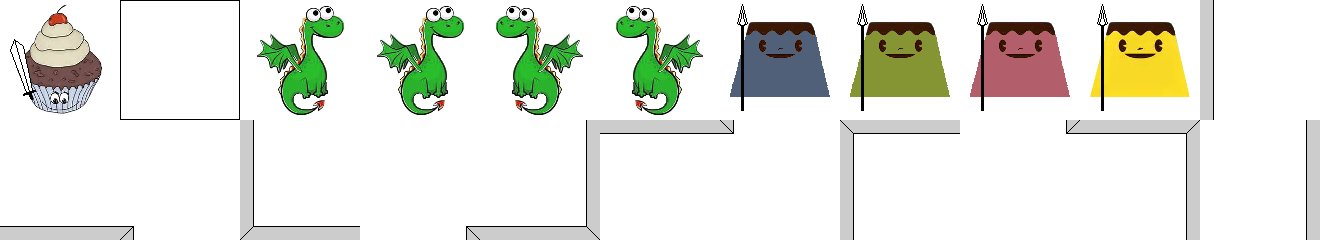
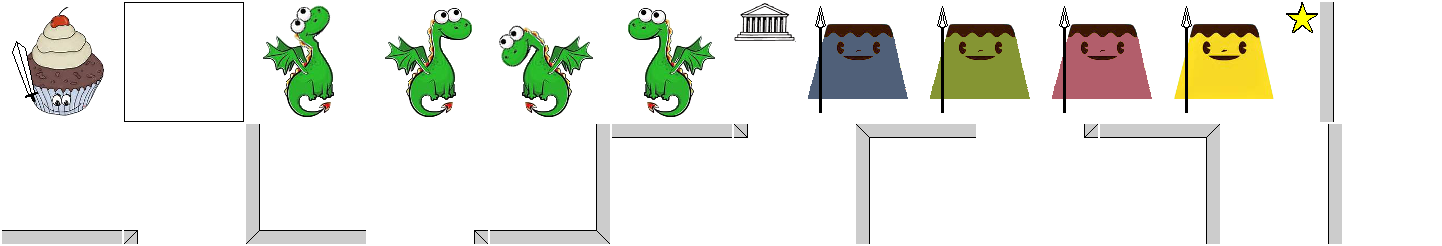
room select

diff --git a/src/scene/select-room.js b/src/scene/select-room.js
@@ -1,6 +1,82 @@
 var SelectRoomLayer = cc.Layer.extend({
     ctor: function () {
         this._super();
+
+        var currentY = 40;
+        var stageNumber = 0;
+        var isFirst = true;
+        _.each(rooms,function(roomEntry){
+            var sprite = new cc.Sprite(cc.spriteFrameCache.getSpriteFrame( "palace1.png" ))
+            sprite.attr({
+                x: Math.sin( (currentY - 40)/1.5/360*2*3.1415926 ) * (cc.winSize.width/2-30) + cc.winSize.width/2,
+                y: currentY,
+                anchorX: 0.5,
+                anchorY: 0.5
+            })
+            this.addChild(sprite);
+            var selectable = false;
+            if ( score[stageNumber] >= roomEntry.scoreCondition[0] ) {
+                selectable = true;
+                this.addStar(sprite, 0)
+                if ( score[stageNumber] >= roomEntry.scoreCondition[1] ) {
+                    this.addStar(sprite, 1)
+                }
+                if ( score[stageNumber] >= roomEntry.scoreCondition[2] ) {
+                    this.addStar(sprite, 2)
+                }
+            } else {
+                if (isFirst) {
+                    selectable = true;
+                    isFirst = false;
+                } else {
+                    selectable = false;
+                }
+            }
+            if ( selectable ) {
+                (function(stageNumber, roomEntry) {
+                    cc.eventManager.addListener({
+                        event: cc.EventListener.TOUCH_ONE_BY_ONE,
+                        swallowTouches: true,
+                        onTouchBegan: function (touch, event) {
+                            var target = event.getCurrentTarget();
+                            var locationInNode = target.convertToNodeSpace(touch.getLocation());
+                            var locationInNode = target.convertToNodeSpace(touch.getLocation());
+                            var s = target.getContentSize();
+                            var rect = cc.rect(0, 0, s.width, s.height);
+                            if (cc.rectContainsPoint(rect, locationInNode)) {
+                                return true;
+                            }
+                            return false;
+                        },
+                        //Trigger when moving touch
+                        onTouchMoved: function (touch, event) {
+                        },
+                        //Process the touch end event
+                        onTouchEnded: function (touch, event) {
+                            cc.director.runScene(new RoomScene({
+                                roomEntry: roomEntry
+                            }));
+                        }
+                    }, sprite);
+                })(stageNumber, roomEntry);
+            } else {
+                sprite.attr({
+                    opacity: 64
+                })
+            }
+            currentY += 40;
+            stageNumber++;
+        },this)
+    },
+    addStar:function(sprite, position){
+        var star = new cc.Sprite(cc.spriteFrameCache.getSpriteFrame( "star.png" ))
+        star.attr({
+            y: 0,
+            x: 5+25*position,
+            scaleX: 0.7,
+            scaleY: 0.7
+        })
+        sprite.addChild(star);
     }
 });
 

diff --git a/src/model/condition.js b/src/model/condition.js
@@ -1,31 +1,41 @@
-var CONDITION_MAP = {
+var CONDITION_FUN_FACTORY_MAP = {
     outOfTurn:function(roomModel){
-        var turnLimit = roomModel.get("turnLimit");
-        if ( turnLimit === 0 ) return false; //unlimited turn
-        return roomModel.get("turnNumber") >= turnLimit;
+        return function(roomModel) {
+            var turnLimit = roomModel.get("turnLimit");
+            if (turnLimit === 0) return false; //unlimited turn
+            return roomModel.get("turnNumber") >= turnLimit;
+        }
     },
     kill:function(roomModel, opt){
-        var statistic = roomModel.get("statistic");
-        var enemyType = opt.type+( opt.subtype ? ("_"+opt.subtype) : "");
-        var statisticItem = "kill-"+enemyType;
-        statistic[statisticItem] = statistic[statisticItem] || 0;
-        return statistic[statisticItem] >= opt.number
+        return function(roomModel) {
+            var statistic = roomModel.get("statistic");
+            var enemyType = opt.type + ( opt.subtype ? ("_" + opt.subtype) : "");
+            var statisticItem = "kill-" + enemyType;
+            statistic[statisticItem] = statistic[statisticItem] || 0;
+            return statistic[statisticItem] >= opt.number
+        }
     },
     "kill-level":function(roomModel, opt){
-        var statistic = roomModel.get("statistic");
-        var enemyType = opt.type+( opt.subtype ? ("_"+opt.subtype) : "");
-        var statisticItem = "kill-level-"+enemyType;
-        statistic[statisticItem] = statistic[statisticItem] || 0;
-        return statistic[statisticItem] >= opt.number
+        return function(roomModel) {
+            var statistic = roomModel.get("statistic");
+            var enemyType = opt.type + ( opt.subtype ? ("_" + opt.subtype) : "");
+            var statisticItem = "kill-level-" + enemyType;
+            statistic[statisticItem] = statistic[statisticItem] || 0;
+            return statistic[statisticItem] >= opt.number
+        }
     },
     "kill-max-level":function(roomModel, opt){
-        var statistic = roomModel.get("statistic");
-        var enemyType = opt.type+( opt.subtype ? ("_"+opt.subtype) : "");
-        var statisticItem = "kill-max-level-"+enemyType;
-        statistic[statisticItem] = statistic[statisticItem] || 0;
-        return statistic[statisticItem] >= opt.number
+        return function(roomModel) {
+            var statistic = roomModel.get("statistic");
+            var enemyType = opt.type + ( opt.subtype ? ("_" + opt.subtype) : "");
+            var statisticItem = "kill-max-level-" + enemyType;
+            statistic[statisticItem] = statistic[statisticItem] || 0;
+            return statistic[statisticItem] >= opt.number
+        }
     },
     score:function(roomModel, opt){
-        return roomModel.get("score") >= opt.number;
+        return function(roomModel) {
+            return roomModel.get("score") >= opt.number;
+        }
     }
 };

diff --git a/src/model/room-entry.js b/src/model/room-entry.js
@@ -1,6 +1,6 @@
 var room1 = {
     turnLimit:6,
-
+    scoreCondition: [10, 20, 30],
     winEveryConditions:[
         {
             conditionType:"kill-level",
@@ -298,7 +298,7 @@ var room1 = {
 
 var room2 = {
     turnLimit:15,
-
+    scoreCondition: [100, 150, 200],
     winEveryConditions:[
         {
             conditionType:"kill-level",
@@ -382,7 +382,7 @@ var room2 = {
             type:"floor",
             subtype: "normal"
         },{
-            type:"floor",
+            type:"wall",
             subtype: "nwlong"
         },{
             type:"wall",
@@ -536,84 +536,6 @@ var room2 = {
         null]
     ],
     initMovables:[
-        {
-            type:"cherrycake",
-            positions: [
-                {
-                    x:2,
-                    y:4
-                }
-            ]
-        },
-        {
-            type:"cherrycake",
-            positions: [
-                {
-                    x:4,
-                    y:4
-                }
-            ]
-        },
-        {
-            type:"pudding",
-            subtype:"yellow",
-            positions: [
-                {
-                    x:3,
-                    y:2
-                }
-            ]
-        },
-        {
-            type:"pudding",
-            subtype:"red",
-            positions: [
-                {
-                    x:2,
-                    y:2
-                }
-            ]
-        },
-        {
-            type:"pudding",
-            subtype:"blue",
-            positions: [
-                {
-                    x:1,
-                    y:2
-                }
-            ]
-        },
-        {
-            type:"pudding",
-            subtype:"yellow",
-            positions: [
-                {
-                    x:3,
-                    y:1
-                }
-            ]
-        },
-        {
-            type:"pudding",
-            subtype:"red",
-            positions: [
-                {
-                    x:2,
-                    y:1
-                }
-            ]
-        },
-        {
-            type:"pudding",
-            subtype:"blue",
-            positions: [
-                {
-                    x:1,
-                    y:1
-                }
-            ]
-        }
     ],
     name: "",
     width: 8,
@@ -638,6 +560,6 @@ var room2 = {
     }
 };
 
-var rooms = [room1, room2]
+var rooms = [room1, room2, room1, room2, room1, room2, room1, room2, room1, room2, room1, room2]
 
         

diff --git a/main.js b/main.js
@@ -47,16 +47,28 @@
  *
  */
 var APP_NAME = "dessert_n_dragon"
+var score = {};
+var statistic = {}
 
 var loadStatistic = function() {
     var store = cc.sys.localStorage.getItem(APP_NAME+".statistic");
     if (store) {
         //cc.log(store)
         statistic = JSON.parse(store);
-    } else {
-        statistic = {
-        }
     }
+}
+
+
+
+var loadScore = function() {
+    var store = cc.sys.localStorage.getItem(APP_NAME+".score");
+    if (store) {
+        score = JSON.parse(store);
+    }
+}
+
+var saveScore = function(){
+    cc.sys.localStorage.setItem(APP_NAME+".score", score);
 }
 
 var initTexts = function(){
@@ -91,11 +103,11 @@ cc.game.onStart = function(){
         initTexts();
 
         loadStatistic();
-
+        loadScore();
 //        loadTutorial(); //TODO
 
         cc.spriteFrameCache.addSpriteFrames(res.game_plist);
-        cc.director.runScene(new RoomScene());
+        cc.director.runScene(new SelectRoomScene());
     }, this);
 };
 cc.game.run();

diff --git a/src/model/room.js b/src/model/room.js
@@ -138,13 +138,11 @@ var RoomModel = Backbone.Model.extend({
     __initCondition:function(conditions, conditionEntries){
         _.each(conditionEntries,function(conditionEntry){
             if ( typeof conditionEntry === "string" ) { //predefined condition
-                conditions.push(CONDITION_MAP[conditionEntry]);
+                conditions.push(CONDITION_FUN_FACTORY_MAP[conditionEntry](this));
             } else if ( typeof conditionEntry === "function") { //custom condition
                 conditions.push(conditionEntry);
             } else if ( typeof conditionEntry === "object") { //predefined condition with params
-                conditions.push(function(){
-                    CONDITION_MAP[conditionEntry.conditionType](this, conditionEntry );
-                });
+                conditions.push(CONDITION_FUN_FACTORY_MAP[conditionEntry.conditionType](this, conditionEntry ));
             }
         })
     },

diff --git a/src/scene/main-game.js b/src/scene/main-game.js
@@ -14,10 +14,9 @@ var SWIPE_THRESHOLD = 50;
 
 var MainLayer = cc.Layer.extend({
     sprite:null,
-    ctor:function () {
+    ctor:function (options) {
         this._super();
-
-        var room = new BasicRoom();
+        var room = new RoomModel(options.roomEntry);
 
         window.currentRoom = room;
         window.currentRoomSprite = new RoomSprite({
@@ -258,9 +257,13 @@ var MainLayer = cc.Layer.extend({
 });
 
 var RoomScene = cc.Scene.extend({
+    ctor:function(options){
+        this._super();
+        this.options = options;
+    },
     onEnter:function () {
         this._super();
-        var layer = new MainLayer();
+        var layer = new MainLayer(this.options);
         this.addChild(layer);
     }
 });

diff --git a/src/view/movable-sprite.js b/src/view/movable-sprite.js
@@ -53,7 +53,6 @@ var MovableSprite = BaseSprite.extend({
             scaleX:0.1,
             scaleY:0.1
         })
-        cc.log("generateEnemy")
         this.runAction(cc.sequence(
             cc.scaleTo(times.generateEnemy, 1,1),
             cc.callFunc( movable.afterGenerate, movable)
